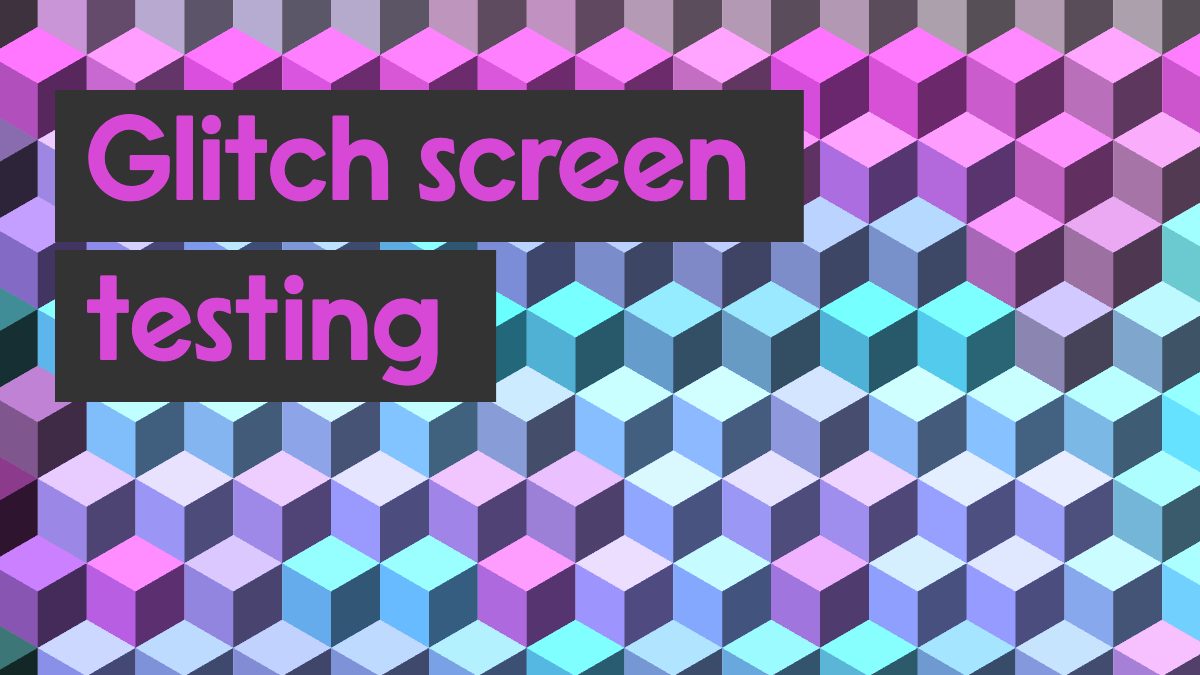
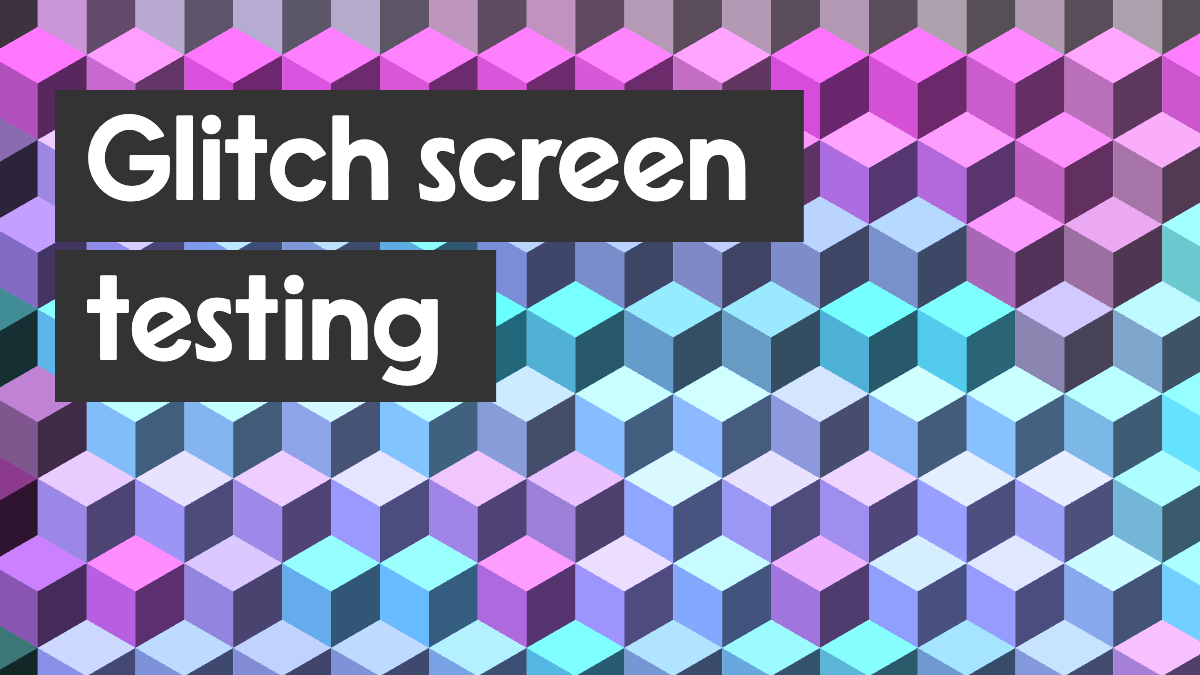
fix the glitch render

Changed region(s): [[0.0617, 0.1556, 0.6475, 0.3111], [0.0617, 0.4044, 0.37, 0.5911]]

diff --git a/glitch/glitch-paper.html b/glitch/glitch-paper.html
@@ -46,6 +46,8 @@
 		<script>
 			urlParams = new URLSearchParams(window.location.search);
 			downloadFileName = urlParams.get("fileName") || "banner";
+			title = urlParams.get("title") || "";
+
 
 			document.getElementById("downloadPNG").download = `${downloadFileName}.png`;
 			document.getElementById("downloadSVG").download = `${downloadFileName}.svg`;
@@ -69,7 +71,7 @@
 					ctx.fill();
 					console.log(...item, ctx.measureText(item[0]));
 					ctx.fillStyle = "#fff";
-					ctx.fillStyle = "#d748d7";
+					//ctx.fillStyle = "#d748d7";
 					ctx.fillText(item[0], item[1], item[2]);
 				});
 				setTimeout(()=>{
